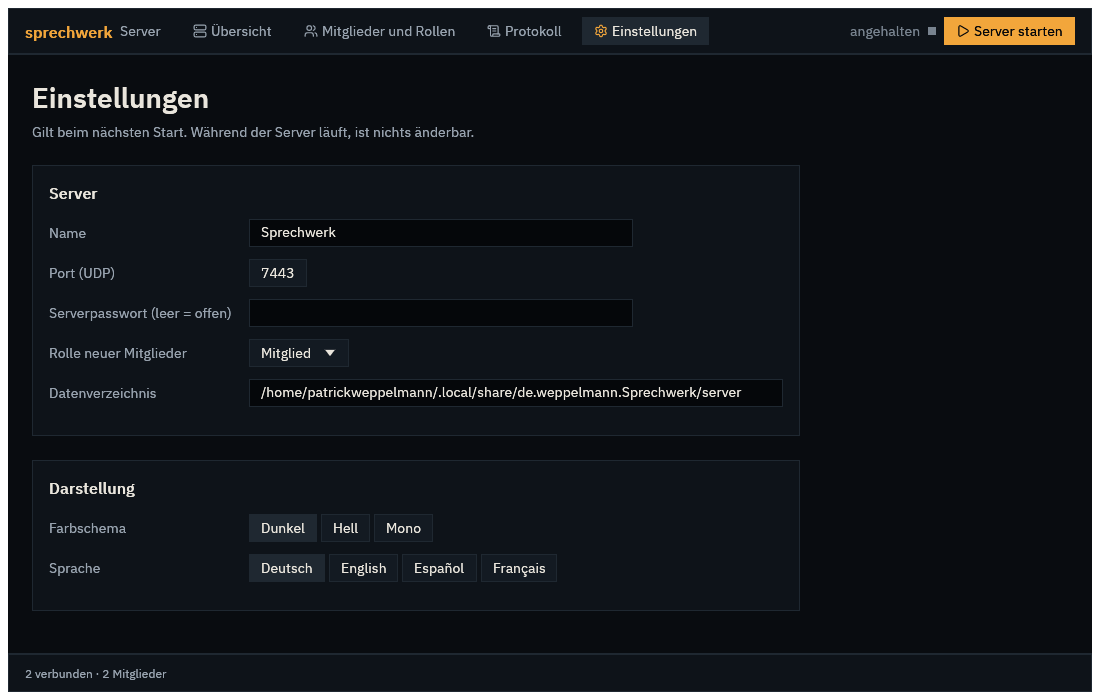
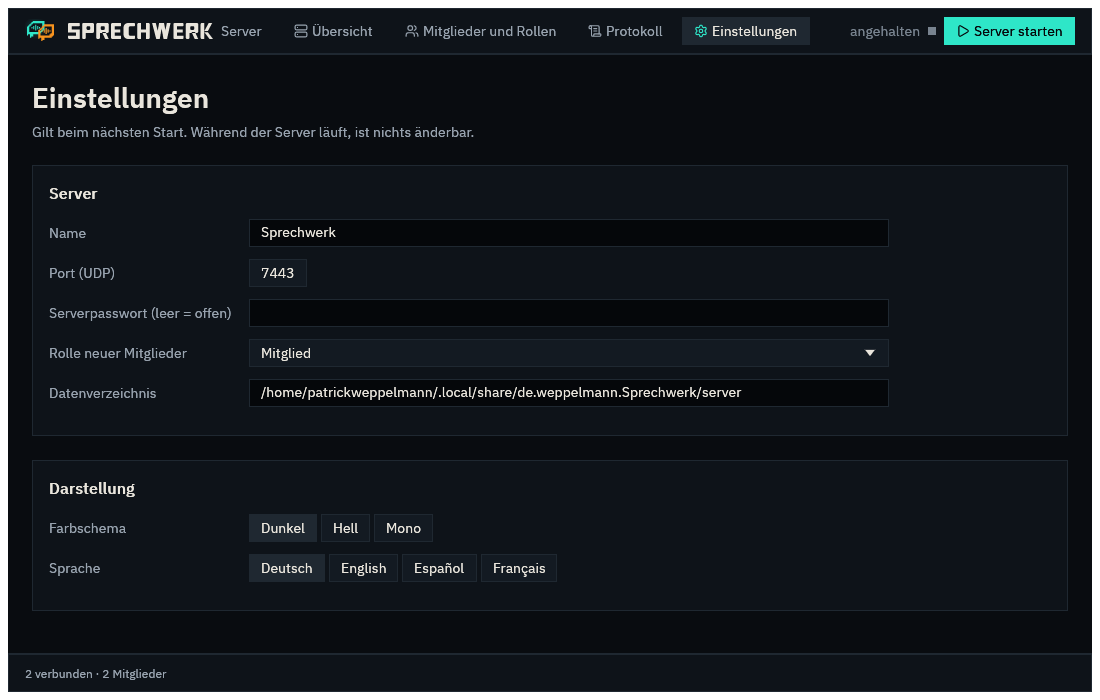
feat(fenster): Zeichen und Wortmarke in der Kopfleiste
Statt "sprechwerk" in der Akzentfarbe zeichnen beide Fenster die Marke
als SVG (ADR 0015): das Zeichen mit seinen Farben und daneben die
Wortmarke, eingefärbt mit der Textfarbe. Im Mono-Theme nimmt auch das
Zeichen die Textfarbe an (symbolic), damit nichts Farbiges auf einer
einfarbigen Fläche steht. Bildschirmfotos in allen drei Themes neu
erzeugt.

Changed region(s): [[0.0, 0.03, 0.7418, 0.06], [0.8345, 0.0, 0.9891, 0.09], [0.7727, 0.48, 0.8036, 0.51]]

diff --git a/crates/fenster/src/ansichten/mod.rs b/crates/fenster/src/ansichten/mod.rs
@@ -14,13 +14,13 @@ pub mod sperren;
 use crate::logik;
 use crate::modell::{Ansicht, Hinweis, Oberflaeche};
 use crate::texte::{t, tf};
-use crate::thema::{self, fett, Ton};
+use crate::thema::{self, Ton};
 use eframe::egui::{self, RichText, Stroke};
 use sprechwerk_client::sitzung::Aktion;
 use sprechwerk_ipc::{Befehl, Verbindung};
 pub use sprechwerk_oberflaeche::bausteine::{
-    self, hauptknopf, hauptknopf_mit, icon, icon_knopf, icon_text_knopf, karte, knopf, pegelbalken,
-    Icon,
+    self, hauptknopf, hauptknopf_mit, icon, icon_knopf, icon_text_knopf, karte, knopf, marke,
+    pegelbalken, Icon,
 };
 
 /// Text in einer Bedeutungsfarbe.
@@ -101,11 +101,7 @@ pub fn kopf(ui: &mut egui::Ui, o: &mut Oberflaeche, aktionen: &mut Vec<Aktion>) 
                     ui,
                     |ui| {
                         if !kompakt || servername.is_none() {
-                            ui.label(
-                                RichText::new("sprechwerk")
-                                    .font(egui::FontId::new(thema::FONT_SIZE_LG, fett()))
-                                    .color(f.accent_default),
-                            );
+                            marke(ui, &f, o.thema());
                             ui.add_space(thema::SPACE_3);
                         }
                         if let Some(name) = &servername {

diff --git a/crates/server-fenster/src/lib.rs b/crates/server-fenster/src/lib.rs
@@ -12,7 +12,8 @@ use eframe::egui::{self, RichText, Stroke};
 use sprechwerk_domain::Role;
 use sprechwerk_oberflaeche::bausteine::{
     auswahl, fakten, feld, feldbreite, hauptknopf_mit, icon_knopf, icon_text_knopf, karte, knopf,
-    kopierbar, leer, rand, rollenabzeichen, seite, seitenkopf, status, status_klein, text, Icon,
+    kopierbar, leer, marke, rand, rollenabzeichen, seite, seitenkopf, status, status_klein, text,
+    Icon,
 };
 use sprechwerk_oberflaeche::texte::{rolle, rolle_kurz, t, tf, Sprache};
 use sprechwerk_oberflaeche::thema::{self, fett, Thema, Ton};
@@ -200,11 +201,7 @@ pub fn zeichnen(ui: &mut egui::Ui, m: &mut Modell) -> Vec<Aktion> {
                     ui,
                     |ui| {
                         if breit {
-                            ui.label(
-                                RichText::new("sprechwerk")
-                                    .font(egui::FontId::new(thema::FONT_SIZE_LG, fett()))
-                                    .color(f.accent_default),
-                            );
+                            marke(ui, &f, m.thema);
                             ui.label(text(&f, t(s, "srv.title"), Ton::Leise));
                             ui.add_space(thema::SPACE_3);
                         }
